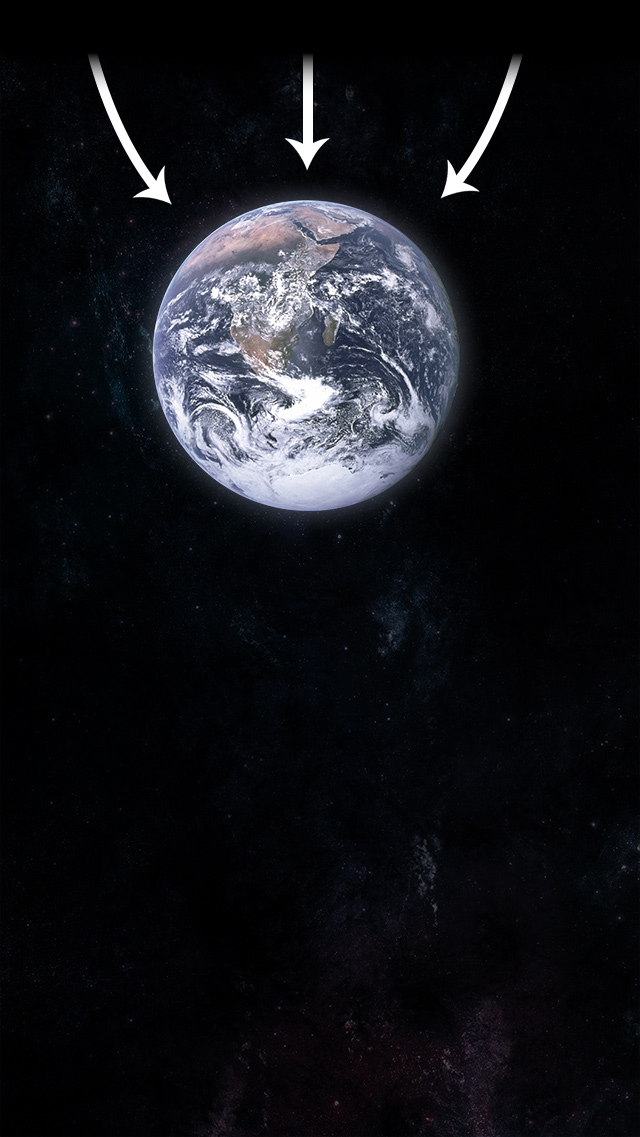
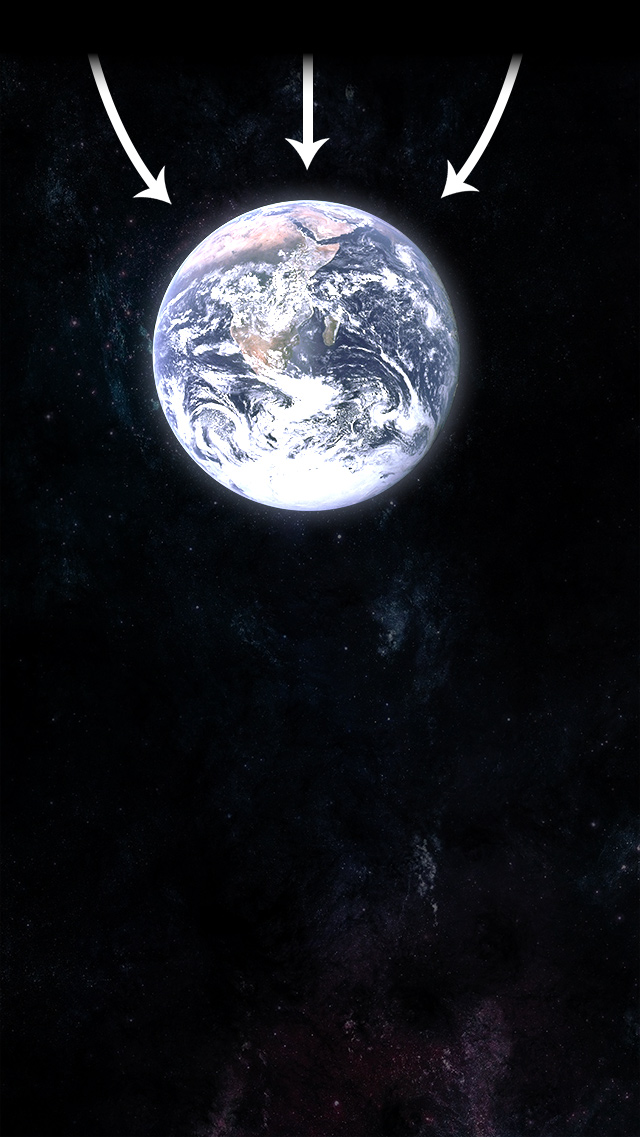
Onboarding view

Changed region(s): [[0.2188, 0.1539, 0.7188, 0.4617]]

diff --git a/OpenWatch/OWOnboardingView.m b/OpenWatch/OWOnboardingView.m
@@ -1,0 +1,77 @@
+//
+//  OWOnboardingView.m
+//  OpenWatch
+//
+//  Created by Christopher Ballinger on 5/2/13.
+//  Copyright (c) 2013 OpenWatch FPC. All rights reserved.
+//
+
+#import "OWOnboardingView.h"
+#import "OWUtilities.h"
+
+@implementation OWOnboardingView
+@synthesize scrollView, images, displayIndex, continueButton;
+
+- (id) initWithFrame:(CGRect)frame scrollViewYOffset:(CGFloat)offset {
+    if (self = [super initWithFrame:frame]) {
+        // Initialization code
+        self.displayIndex = 0;
+        self.scrollView = [[UIScrollView alloc] initWithFrame:CGRectMake(frame.origin.x, frame.origin.y + offset, frame.size.width, frame.size.height)];
+        self.scrollView.userInteractionEnabled = NO;
+        
+        UIImage *firstImage = [UIImage imageNamed:@"ow_space1.jpg"];
+        UIImage *secondImage = [UIImage imageNamed:@"ow_space2.jpg"];
+        
+        self.images = @[firstImage, secondImage];
+        
+        int i = 0;
+        for (UIImage *image in images) {
+            UIImageView *imageView = [[UIImageView alloc] initWithImage:image];
+            imageView.contentMode = UIViewContentModeTop;
+            imageView.frame = CGRectMake(frame.size.width * i, 0, frame.size.width, frame.size.height);
+            [self.scrollView addSubview:imageView];
+            i++;
+        }
+        
+        self.scrollView.contentSize = CGSizeMake(frame.size.width * i, frame.size.height);
+        
+        [self addSubview:scrollView];
+        
+        self.continueButton = [OWUtilities bigGreenButton];
+        [continueButton setTitle:@"Continue →" forState:UIControlStateNormal];
+        CGFloat xPadding = 20.0f;
+        CGFloat bottomPadding = 100.0f;
+        self.continueButton.frame = CGRectMake(xPadding, frame.size.height - bottomPadding, frame.size.width - xPadding * 2, 50);
+        [self.continueButton addTarget:self action:@selector(continueButtonPressed:) forControlEvents:UIControlEventTouchUpInside];
+        
+        [self addSubview:continueButton];
+    }
+
+    return self;
+}
+
+- (id)initWithFrame:(CGRect)frame
+{
+    if (self = [self initWithFrame:frame scrollViewYOffset:0]) {
+        
+    }
+    return self;
+}
+
+- (void) continueButtonPressed:(id)sender {
+    self.displayIndex++;
+    if (displayIndex >= self.images.count) {
+        if (self.delegate && [self.delegate respondsToSelector:@selector(onboardingViewDidComplete:)]) {
+            [self.delegate onboardingViewDidComplete:self];
+        }
+        //NSLog(@"Done!");
+    } else {
+        [self.scrollView setContentOffset:CGPointMake(displayIndex * self.scrollView.frame.size.width, 0) animated:YES];
+    }
+    if (self.delegate && [self.delegate respondsToSelector:@selector(onboardingView:didAdvanceToIndex:)]) {
+        [self.delegate onboardingView:self didAdvanceToIndex:displayIndex];
+    }
+}
+
+
+@end

diff --git a/OpenWatch/OWDashboardViewController.m b/OpenWatch/OWDashboardViewController.m
@@ -17,6 +17,8 @@
 #import "OWFeedViewController.h"
 #import "OWFeedSelectionViewController.h"
 #import "OWInvestigationViewController.h"
+#import <QuartzCore/QuartzCore.h>
+#import "OWSettingsController.h"
 
 #define kActionBarHeight 70.0f
 
@@ -26,7 +28,7 @@
 @end
 
 @implementation OWDashboardViewController
-@synthesize actionBarView, onboardingImageView;
+@synthesize actionBarView, onboardingView;
 
 - (id)init
 {
@@ -34,7 +36,6 @@
     if (self) {
         self.actionBarView = [[OWActionBarView alloc] init];
         self.actionBarView.delegate = self;
-        self.onboardingImageView = [[UIImageView alloc] initWithImage:[UIImage imageNamed:@"ow_space1.jpg"]];
     }
     return self;
 }
@@ -74,6 +75,17 @@
     self.actionBarView.frame = CGRectMake(0, 0, self.view.frame.size.width, actionBarHeight);
     
     [self fetchObjectsForPageNumber:1];
+    
+    OWAccount *account = [OWSettingsController sharedInstance].account;
+
+    if (!account.hasCompletedOnboarding) {
+        self.onboardingView = [[OWOnboardingView alloc] initWithFrame:self.view.bounds scrollViewYOffset:kActionBarHeight - 2];
+        self.onboardingView.delegate = self;
+        [self.view addSubview:onboardingView];
+        
+        // TODO: stop using UITableViewController. move to UIViewController with content view and table view in it
+        onboardingView.layer.zPosition = 1000;
+    }
 }
 
 - (void) actionBarView:(OWActionBarView *)actionBarView didSelectButtonAtIndex:(NSUInteger)buttonIndex {
@@ -177,6 +189,17 @@
     owc.mediaObjectID = mediaObjectID;
     
     [self.navigationController pushViewController:owc animated:YES];
+}
+
+- (void) onboardingViewDidComplete:(OWOnboardingView *)onboardingView {
+    OWAccount *account = [OWSettingsController sharedInstance].account;
+    account.hasCompletedOnboarding = YES;
+    [UIView animateWithDuration:3.0 animations:^{
+        self.onboardingView.layer.opacity = 0.0f;
+    } completion:^(BOOL finished) {
+        [self.onboardingView removeFromSuperview];
+        self.onboardingView = nil;
+    }];
 }
 
 @end

diff --git a/OpenWatch/OWAccount.m b/OpenWatch/OWAccount.m
@@ -16,6 +16,7 @@
 #define kPrivateUploadTokenKey @"kPrivateUploadTokenKey"
 #define kPasswordKey @"kPasswordKey"
 #define kUsernameKey @"kUsernameKey"
+#define kOnboardingKey @"kOnboardingKey"
 
 @implementation OWAccount
 
@@ -153,6 +154,7 @@
     [defaults removeObjectForKey:kAccountIDKey];
     [defaults removeObjectForKey:kUsernameKey];
     [defaults removeObjectForKey:kEmailKey];
+    [defaults removeObjectForKey:kOnboardingKey];
     BOOL success = [defaults synchronize];
     if (!success) {
         NSLog(@"Error deleting objects from NSUserDefaults");
@@ -160,6 +162,17 @@
     [self setKeychainValue:nil forKey:kPasswordKey];
     [self setKeychainValue:nil forKey:kPublicUploadTokenKey];
     [self setKeychainValue:nil forKey:kPrivateUploadTokenKey];
+}
+
+- (void) setHasCompletedOnboarding:(BOOL)completedOnboarding {
+    NSUserDefaults *defaults = [NSUserDefaults standardUserDefaults];
+    [defaults setObject:@(completedOnboarding) forKey:kOnboardingKey];
+    [defaults synchronize];
+}
+
+- (BOOL) hasCompletedOnboarding {
+    NSUserDefaults *defaults = [NSUserDefaults standardUserDefaults];
+    return [[defaults objectForKey:kOnboardingKey] boolValue];
 }
 
 @end

diff --git a/OpenWatch/OWOnboardingView.h b/OpenWatch/OWOnboardingView.h
@@ -1,0 +1,32 @@
+//
+//  OWOnboardingView.h
+//  OpenWatch
+//
+//  Created by Christopher Ballinger on 5/2/13.
+//  Copyright (c) 2013 OpenWatch FPC. All rights reserved.
+//
+
+#import <UIKit/UIKit.h>
+
+@class OWOnboardingView;
+
+@protocol OWOnboardingViewDelegate <NSObject>
+@optional
+- (void) onboardingView:(OWOnboardingView*)onboardingView didAdvanceToIndex:(NSUInteger)index;
+- (void) onboardingViewDidComplete:(OWOnboardingView*)onboardingView;
+@end
+
+@interface OWOnboardingView : UIView
+
+@property (nonatomic) NSUInteger displayIndex;
+@property (nonatomic, strong) UIScrollView *scrollView;
+@property (nonatomic, strong) NSArray *images;
+@property (nonatomic, strong) UIButton *continueButton;
+
+@property (nonatomic, weak) id<OWOnboardingViewDelegate> delegate;
+
+- (id)initWithFrame:(CGRect)frame scrollViewYOffset:(CGFloat)offset;
+
+
+
+@end

diff --git a/OpenWatch/OWFancyLoginViewController.m b/OpenWatch/OWFancyLoginViewController.m
@@ -61,9 +61,6 @@
     self.emailField.autocapitalizationType = UITextAutocapitalizationTypeNone;
     self.emailField.autocorrectionType = UITextAutocorrectionTypeNo;
     [self.startButton setTitle:@"Get Started →" forState:UIControlStateNormal];
-    [self.startButton setTitleColor:[UIColor whiteColor] forState:UIControlStateNormal];
-    [self.startButton setTitleShadowColor:[UIColor grayColor] forState:UIControlStateNormal];
-    self.startButton.titleLabel.shadowOffset = CGSizeMake(0, -1);
     [self.startButton addTarget:self action:@selector(startButtonPressed:) forControlEvents:UIControlEventTouchUpInside];
     
     

diff --git a/OpenWatch/OWDashboardViewController.h b/OpenWatch/OWDashboardViewController.h
@@ -9,10 +9,11 @@
 #import <UIKit/UIKit.h>
 #import "OWActionBarView.h"
 #import "OWPaginatedTableViewController.h"
+#import "OWOnboardingView.h"
 
-@interface OWDashboardViewController : OWPaginatedTableViewController <OWActionBarViewDelegate>
+@interface OWDashboardViewController : OWPaginatedTableViewController <OWActionBarViewDelegate, OWOnboardingViewDelegate>
 
 @property (nonatomic, strong) OWActionBarView *actionBarView;
-@property (nonatomic, strong) UIImageView *onboardingImageView;
+@property (nonatomic, strong) OWOnboardingView *onboardingView;
 
 @end

diff --git a/OpenWatch/OWUtilities.m b/OpenWatch/OWUtilities.m
@@ -20,6 +20,10 @@
     [button setBackgroundImage:greenButtonImage forState:UIControlStateNormal]
     ;
     [button setBackgroundImage:greenButtonImageHighlight forState:UIControlStateHighlighted];
+    
+    [button setTitleColor:[UIColor whiteColor] forState:UIControlStateNormal];
+    [button setTitleShadowColor:[UIColor grayColor] forState:UIControlStateNormal];
+    button.titleLabel.shadowOffset = CGSizeMake(0, -1);
     return button;
 }
 

diff --git a/OpenWatch/OWAccount.h b/OpenWatch/OWAccount.h
@@ -17,6 +17,7 @@
 @property (nonatomic, strong) NSString *privateUploadToken;
 @property (nonatomic, strong) NSString *password;
 @property (nonatomic, strong) NSString *username;
+@property (nonatomic) BOOL hasCompletedOnboarding;
 
 - (OWUser*) user;
 
